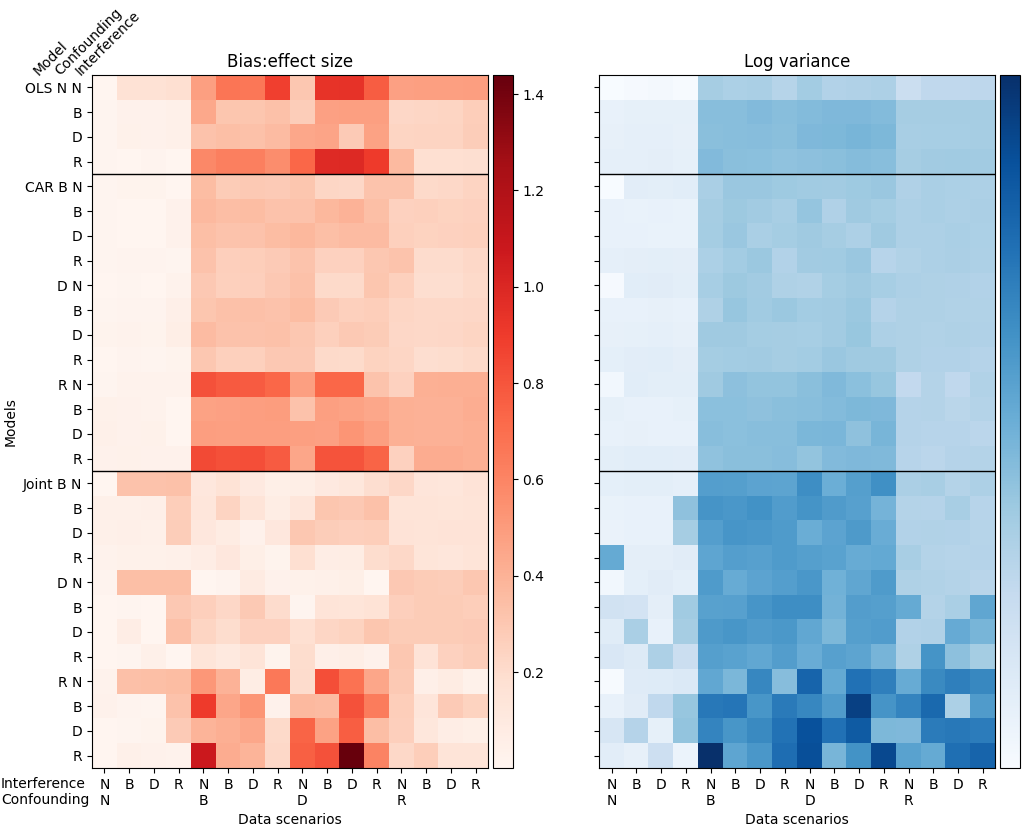
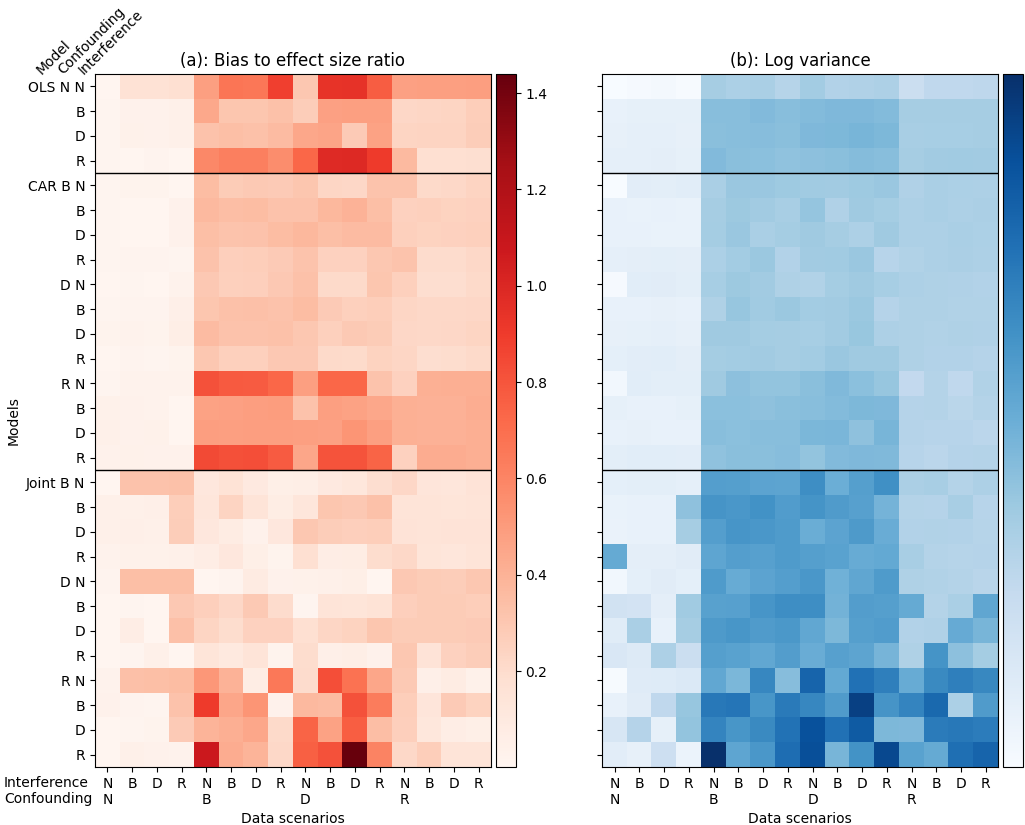
move experiment plan doc to experiment repo

diff --git a/analysis/combined-matrix-slides.py b/analysis/combined-matrix-slides.py
@@ -95,7 +95,7 @@ ax[0].set_yticklabels(ylabels)
 ax[0].set_xticks(list(range(len(xlabels))))
 # ax[0].xaxis.set_ticks_position('none')
 ax[0].set_xticklabels(xlabels)
-ax[0].set_title("Bias:effect size")
+ax[0].set_title("(a): Bias to effect size ratio")
 ax[0].set_xlabel("Data scenarios")
 ax[0].set_ylabel("Models")
 # ax[0].set_xlabel("models (interference varies more)")
@@ -104,10 +104,10 @@ cax = divider.append_axes('right', size='5%', pad=0.05)
 fig.colorbar(bias_im, cax=cax, orientation='vertical')
 ax[0].plot([-0.5, 15.5], [3.5, 3.5], 'k', linewidth=1)
 ax[0].plot([-0.5, 15.5], [15.5, 15.5], 'k', linewidth=1)
-# highlight_cells(0, 4, xwidth=4, ywidth=12, ax=ax[0], color="limegreen", zorder=2, linewidth=3) # 2
-# highlight_cells(0, 16, xwidth=16, ywidth=8, ax=ax[0], color="limegreen", zorder=2, linewidth=3) # 3
-# highlight_cells(0, 12, xwidth=16, ywidth=4, ax=ax[0], color="limegreen", zorder=2, linewidth=3) # 4
-# highlight_cells(0, 24, xwidth=16, ywidth=4, ax=ax[0], color="limegreen", zorder=2, linewidth=3) # 4
+# highlight_cells(0, 4, xwidth=4, ywidth=12, ax=ax[0], color="black", zorder=2, linewidth=5) # 2
+# highlight_cells(0, 16, xwidth=16, ywidth=8, ax=ax[0], color="black", zorder=2, linewidth=5) # 3
+highlight_cells(0, 12, xwidth=16, ywidth=4, ax=ax[0], color="black", zorder=2, linewidth=5) # 4
+highlight_cells(0, 24, xwidth=16, ywidth=4, ax=ax[0], color="black", zorder=2, linewidth=5) # 4
 
 var_im = ax[1].imshow(np.log(conf_var_matrix), cmap="Blues")
 # plt.colorbar()
@@ -116,7 +116,7 @@ ax[1].set_yticklabels(ylabels)
 #ax[1].xaxis.tick_top()
 ax[1].set_xticks(list(range(len(xlabels))))
 ax[1].set_xticklabels(xlabels)
-ax[1].set_title("Log variance")
+ax[1].set_title("(b): Log variance")
 # ax[1].set_ylabel("Data scenarios")
 ax[1].set_xlabel("Data scenarios")
 divider = make_axes_locatable(ax[1])
@@ -130,11 +130,174 @@ plt.text(0.0925, 0.88, "Confounding", rotation=45, fontsize=10, transform=fig.tr
 plt.text(0.11, 0.88, "Interference", rotation=45, fontsize=10, transform=fig.transFigure)
 plt.text(0.05, 0.0875, "Interference", fontsize=10, transform=fig.transFigure)
 plt.text(0.05, 0.07, "Confounding", fontsize=10, transform=fig.transFigure)
-# highlight_cells(0, 4, xwidth=4, ywidth=12, ax=ax[1], color="limegreen", zorder=2, linewidth=3)
-# highlight_cells(0, 16, xwidth=16, ywidth=8, ax=ax[1], color="limegreen", zorder=2, linewidth=3)
-# highlight_cells(0, 12, xwidth=16, ywidth=4, ax=ax[1], color="limegreen", zorder=2, linewidth=3)
-# highlight_cells(0, 24, xwidth=16, ywidth=4, ax=ax[1], color="limegreen", zorder=2, linewidth=3)
+# highlight_cells(0, 4, xwidth=4, ywidth=12, ax=ax[1], color="black", zorder=2, linewidth=5)
+# highlight_cells(0, 16, xwidth=16, ywidth=8, ax=ax[1], color="black", zorder=2, linewidth=5)
+highlight_cells(0, 12, xwidth=16, ywidth=4, ax=ax[1], color="black", zorder=2, linewidth=5)
+highlight_cells(0, 24, xwidth=16, ywidth=4, ax=ax[1], color="black", zorder=2, linewidth=5)
 # plt.text(0.50, 0.09, "Interference", fontsize=10, transform=fig.transFigure)
 # plt.text(0.50, 0.075, "Confounding", fontsize=10, transform=fig.transFigure)
 # plt.tight_layout()
+plt.show()
+
+
+## MASKED PLOTS FOR SLIDES: 1
+# This is FAR from the best way to do this
+biasmat = np.abs(conf_bias_matrix)/1.5
+varmat = np.log(conf_var_matrix)
+bvmin = biasmat.min()
+bvmax = biasmat.max()
+vvmin = varmat.min()
+vvmax = varmat.max()
+
+bias_cm = copy.copy(get_cmap("Reds"))
+bias_cm.set_bad(color='lightgray')
+var_cm = copy.copy(get_cmap("Blues"))
+var_cm.set_bad(color='lightgray')
+
+mask1 = biasmat.copy()
+mask1_r = [0]*16 + [1]*16 + [2]*16 + [3]*16 + \
+          [4]*12 + [5]*12 + [6]*12 + [7]*12 + \
+          [8]*12 + [9]*12 + [10]*12 + [11]*12 + \
+          [12]*12 + [13]*12 + [14]*12 + [15]*12 + \
+          [16]*16 + [17]*16 + [18]*16 + [19]*16 + \
+          [20]*16 + [21]*16 + [22]*16 + [23]*16 + \
+          [24]*16 + [25]*16 + [26]*16 + [27]*16
+mask1_c = 4*list(range(16)) + 12*list(range(4, 16)) + 12*list(range(16))
+mask1[mask1_r, mask1_c] = np.nan
+
+mask2 = biasmat.copy()
+mask2_r = [0]*16 + [1]*16 + [2]*16 + [3]*16 + \
+          [4]*16 + [5]*16 + [6]*16 + [7]*16 + \
+          [8]*16 + [9]*16 + [10]*16 + [11]*16 + \
+          [12]*16 + [13]*16 + [14]*16 + [15]*16 + \
+          [24]*16 + [25]*16 + [26]*16 + [27]*16
+mask2_c = 20*list(range(16))
+mask2[mask2_r, mask2_c] = np.nan
+
+mask3 = biasmat.copy()
+mask3_r = [0]*16 + [1]*16 + [2]*16 + [3]*16 + \
+          [4]*16 + [5]*16 + [6]*16 + [7]*16 + \
+          [8]*16 + [9]*16 + [10]*16 + [11]*16 + \
+          [16]*16 + [17]*16 + [18]*16 + [19]*16 + \
+          [20]*16 + [21]*16 + [22]*16 + [23]*16
+mask3_c = 20*list(range(16))
+mask3[mask3_r, mask3_c] = np.nan
+
+
+biasmat1 = np.ma.array(biasmat, mask=np.isnan(mask1))
+biasmat2 = np.ma.array(biasmat, mask=np.isnan(mask2))
+biasmat3 = np.ma.array(biasmat, mask=np.isnan(mask3))
+varmat1 = np.ma.array(varmat, mask=np.isnan(mask1))
+varmat2 = np.ma.array(varmat, mask=np.isnan(mask2))
+varmat3 = np.ma.array(varmat, mask=np.isnan(mask3))
+
+fig, ax = plt.subplots(ncols=2, figsize=(12, 9), sharey=True)
+bias_im = ax[0].imshow(biasmat1, vmin=bvmin, vmax=bvmax, cmap=bias_cm)
+ax[0].set_yticks(list(range(len(ylabels))))
+ax[0].set_yticklabels(ylabels)
+ax[0].set_xticks(list(range(len(xlabels))))
+ax[0].set_xticklabels(xlabels)
+ax[0].set_title("(a): Bias to effect size ratio")
+ax[0].set_xlabel("Data scenarios")
+ax[0].set_ylabel("Models")
+divider = make_axes_locatable(ax[0])
+cax = divider.append_axes('right', size='5%', pad=0.05)
+fig.colorbar(bias_im, cax=cax, orientation='vertical')
+ax[0].plot([-0.5, 15.5], [3.5, 3.5], 'k', linewidth=1)
+ax[0].plot([-0.5, 15.5], [15.5, 15.5], 'k', linewidth=1)
+
+var_im = ax[1].imshow(varmat1, vmin=vvmin, vmax=vvmax, cmap=var_cm)
+ax[1].set_yticks(list(range(len(ylabels))))
+ax[1].set_yticklabels(ylabels)
+ax[1].set_xticks(list(range(len(xlabels))))
+ax[1].set_xticklabels(xlabels)
+ax[1].set_title("(b): Log variance")
+ax[1].set_xlabel("Data scenarios")
+divider = make_axes_locatable(ax[1])
+cax = divider.append_axes('right', size='5%', pad=0.05)
+cbar = fig.colorbar(var_im, cax=cax, orientation='vertical')
+cbar.set_ticks([])
+ax[1].plot([-0.5, 15.5], [3.5, 3.5], 'k', linewidth=1)
+ax[1].plot([-0.5, 15.5], [15.5, 15.5], 'k', linewidth=1)
+plt.text(0.075, 0.88, "Model", rotation=45, fontsize=10, transform=fig.transFigure)
+plt.text(0.0925, 0.88, "Confounding", rotation=45, fontsize=10, transform=fig.transFigure)
+plt.text(0.11, 0.88, "Interference", rotation=45, fontsize=10, transform=fig.transFigure)
+plt.text(0.05, 0.0875, "Interference", fontsize=10, transform=fig.transFigure)
+plt.text(0.05, 0.07, "Confounding", fontsize=10, transform=fig.transFigure)
+plt.show()
+
+
+## MASK 2
+
+fig, ax = plt.subplots(ncols=2, figsize=(12, 9), sharey=True)
+bias_im = ax[0].imshow(biasmat2, vmin=bvmin, vmax=bvmax, cmap=bias_cm)
+ax[0].set_yticks(list(range(len(ylabels))))
+ax[0].set_yticklabels(ylabels)
+ax[0].set_xticks(list(range(len(xlabels))))
+ax[0].set_xticklabels(xlabels)
+ax[0].set_title("(a): Bias to effect size ratio")
+ax[0].set_xlabel("Data scenarios")
+ax[0].set_ylabel("Models")
+divider = make_axes_locatable(ax[0])
+cax = divider.append_axes('right', size='5%', pad=0.05)
+fig.colorbar(bias_im, cax=cax, orientation='vertical')
+ax[0].plot([-0.5, 15.5], [3.5, 3.5], 'k', linewidth=1)
+ax[0].plot([-0.5, 15.5], [15.5, 15.5], 'k', linewidth=1)
+
+var_im = ax[1].imshow(varmat2, vmin=vvmin, vmax=vvmax, cmap=var_cm)
+ax[1].set_yticks(list(range(len(ylabels))))
+ax[1].set_yticklabels(ylabels)
+ax[1].set_xticks(list(range(len(xlabels))))
+ax[1].set_xticklabels(xlabels)
+ax[1].set_title("(b): Log variance")
+ax[1].set_xlabel("Data scenarios")
+divider = make_axes_locatable(ax[1])
+cax = divider.append_axes('right', size='5%', pad=0.05)
+cbar = fig.colorbar(var_im, cax=cax, orientation='vertical')
+cbar.set_ticks([])
+ax[1].plot([-0.5, 15.5], [3.5, 3.5], 'k', linewidth=1)
+ax[1].plot([-0.5, 15.5], [15.5, 15.5], 'k', linewidth=1)
+plt.text(0.075, 0.88, "Model", rotation=45, fontsize=10, transform=fig.transFigure)
+plt.text(0.0925, 0.88, "Confounding", rotation=45, fontsize=10, transform=fig.transFigure)
+plt.text(0.11, 0.88, "Interference", rotation=45, fontsize=10, transform=fig.transFigure)
+plt.text(0.05, 0.0875, "Interference", fontsize=10, transform=fig.transFigure)
+plt.text(0.05, 0.07, "Confounding", fontsize=10, transform=fig.transFigure)
+plt.show()
+
+
+## MASK 3
+
+fig, ax = plt.subplots(ncols=2, figsize=(12, 9), sharey=True)
+bias_im = ax[0].imshow(biasmat3, vmin=bvmin, vmax=bvmax, cmap=bias_cm)
+ax[0].set_yticks(list(range(len(ylabels))))
+ax[0].set_yticklabels(ylabels)
+ax[0].set_xticks(list(range(len(xlabels))))
+ax[0].set_xticklabels(xlabels)
+ax[0].set_title("(a): Bias to effect size ratio")
+ax[0].set_xlabel("Data scenarios")
+ax[0].set_ylabel("Models")
+divider = make_axes_locatable(ax[0])
+cax = divider.append_axes('right', size='5%', pad=0.05)
+fig.colorbar(bias_im, cax=cax, orientation='vertical')
+ax[0].plot([-0.5, 15.5], [3.5, 3.5], 'k', linewidth=1)
+ax[0].plot([-0.5, 15.5], [15.5, 15.5], 'k', linewidth=1)
+
+var_im = ax[1].imshow(varmat3, vmin=vvmin, vmax=vvmax, cmap=var_cm)
+ax[1].set_yticks(list(range(len(ylabels))))
+ax[1].set_yticklabels(ylabels)
+ax[1].set_xticks(list(range(len(xlabels))))
+ax[1].set_xticklabels(xlabels)
+ax[1].set_title("(b): Log variance")
+ax[1].set_xlabel("Data scenarios")
+divider = make_axes_locatable(ax[1])
+cax = divider.append_axes('right', size='5%', pad=0.05)
+cbar = fig.colorbar(var_im, cax=cax, orientation='vertical')
+cbar.set_ticks([])
+ax[1].plot([-0.5, 15.5], [3.5, 3.5], 'k', linewidth=1)
+ax[1].plot([-0.5, 15.5], [15.5, 15.5], 'k', linewidth=1)
+plt.text(0.075, 0.88, "Model", rotation=45, fontsize=10, transform=fig.transFigure)
+plt.text(0.0925, 0.88, "Confounding", rotation=45, fontsize=10, transform=fig.transFigure)
+plt.text(0.11, 0.88, "Interference", rotation=45, fontsize=10, transform=fig.transFigure)
+plt.text(0.05, 0.0875, "Interference", fontsize=10, transform=fig.transFigure)
+plt.text(0.05, 0.07, "Confounding", fontsize=10, transform=fig.transFigure)
 plt.show()

diff --git a/analysis/raster-fig.py b/analysis/raster-fig.py
@@ -1,0 +1,26 @@
+import numpy as np
+import matplotlib.pyplot as plt
+
+img = np.array([[1, 1, 0, 0, 0],
+                [1, 1, 0, 0, 0],
+                [1, 1, 1, 1, 1],
+                [0, 1, 1, 1, 1],
+                [0, 0, 0, 0, 1]])
+img = 1 - img  # flip so the colors look nice (green = treated)
+
+plt.imshow(img, cmap="Accent")
+plt.axis('off')
+plt.vlines([-0.5, 0.5, 1.5, 2.5, 3.5, 4.5], ymin=-0.5, ymax=4.5, colors='k')
+plt.hlines([-0.5, 0.5, 1.5, 2.5, 3.5, 4.5], xmin=-0.5, xmax=4.5, colors='k')
+plt.show()
+
+pad = 0.05
+plt.imshow(img, cmap="Accent")
+plt.axis('off')
+plt.vlines([-0.5, 0.5, 1.5, 2.5, 3.5, 4.5], ymin=-0.5, ymax=4.5, colors='k')
+plt.hlines([-0.5, 0.5, 1.5, 2.5, 3.5, 4.5], xmin=-0.5, xmax=4.5, colors='k')
+plt.arrow(1-pad, 2, 1, 0, length_includes_head=True, head_width=0.1, color="ivory")
+plt.arrow(3+pad, 2, -1, 0, length_includes_head=True, head_width=0.1, color="ivory")
+plt.arrow(2, 1-pad, 0, 1, length_includes_head=True, head_width=0.1, color="ivory")
+plt.arrow(2, 3+pad, 0, -1, length_includes_head=True, head_width=0.1, color="ivory")
+plt.show()

diff --git a/analysis/initial-exploration.py b/analysis/initial-exploration.py
@@ -67,5 +67,22 @@ matched_data_outs["w_c_data_form"] = matched_data_outs["w_c_data_form"].map(rev_
 matched_data_outs["w_c_model_form"] = matched_data_outs["w_c_model_form"].map(rev_mapper)
 
 data["bias"] = data["tau_med"] - data["treat"]
+data["bias_ratio"] = np.abs(data["bias"])/1.5
+data["log_var"] = np.log(data["tau_var"])
 sns.histplot(data["bias"])
+plt.show()
+
+
+plt.rc('font', size=16)
+_, ax = plt.subplots(ncols=2, sharey=True)
+sns.boxplot(data=[matched_data["bias_ratio"], unmatched_data["bias_ratio"]], orient="h", ax=ax[0])
+ax[0].set_yticklabels(labels=["Matched", "Unmatched"])
+ax[0].set_xlabel("Bias:effect size")
+ax[0].set_title("Comparison of bias:effect size ratio")
+
+sns.boxplot(data=[matched_data["log_var"], unmatched_data["log_var"]], orient="h", ax=ax[1])
+ax[1].set_yticklabels(labels=["Matched", "Unmatched"])
+ax[1].set_xlabel("Log variance")
+ax[1].set_title("Comparison of log variance")
+plt.tight_layout()
 plt.show()

diff --git a/experiment-plan.md b/experiment-plan.md
@@ -1,0 +1,66 @@
+## DGP parameters
+
+Let $N$ be the number of spatial units (one observation per unit) and $D$ be the number of covariates.
+Also note that the value $\phi = 0$ corresponds to an ICAR DGP, and any $\phi > 0$ corresponds to the Joint DGP.
+The choices of $W_I$ also correspond to various versions of interference: a region-based weights matrix, for example, represents partial interference.
+
+| Math name | Code name | Description | Domain | Plausible values | Testing set |
+|:----------|:----------|:------------|:------:|:----------------:|:-----------:|
+| $\tau$    | `treat`   | Treatment effect of Z on Y | $(-\infty, \infty)$ | $[-10, 10]$ | $[-2, 2]$ |
+| $\alpha$  | `z_conf`  | Effect of nonspatial confounders on Z | $(-\infty, \infty)^D$ | $[-10, 10]^D$ | $[-2, 2]^D$ |
+| $\beta$   | `y_conf`  | Effect of nonspatial confounders on Y | $(-\infty, \infty)^D$ | $[-10, 10]^D$ | $[-2, 2]^D$ |
+|           | `interf`  | Effect of interference on Y | $(-\infty, \infty)$ | $[-10, 10]$ | $[-2, 2]$ |
+|$\sigma^2_X$|`x_sd`| Standard deviation of confounders | $(0, \infty)$ | $(0, 10)$ | $(0, 1]$ |
+| $\rho_X$ | `x_sp` | Spatial autocorrelation of confounders | $(0, 1)$ | $[0.5, 0.99]$| $[0.5, 0.99]$ |
+|$\sigma^2_Y$|`y_sd`| Standard deviation of outcome | $(0, \infty)$ | $(0, 10)$ | $(0, 1]$ |
+| $\rho_U$ | `ucar_str` | Strength of spatial association for spatial confounding on Y | $(0, 1)$ | $[0.5, 0.99]$| $[0.5, 0.99]$ |
+|$\sigma^2_U$|`ucar_sd`| Standard deviation of CAR term for confounding on Y | $(0, \infty)$ | $(0, 10)$ | $(0, 1]$ |
+| $\rho_V$ | `vcar_str` | Strength of spatial association for spatial confounding on Z | $(0, 1)$ | $[0.5, 0.99]$| $[0.5, 0.99]$ |
+|$\sigma^2_V$|`vcar_sd`| Standard deviation of CAR term for confounding on Z | $(0, \infty)$ | $(0, 10)$ | $(0, 1]$ |
+|$\phi$| `balance` | Balancing factor that parametrizes the shared spatial confounding between Y and Z | $[0, 1]$ | $[0, 1]$ | $[0, 1]$ |
+| $W_C$ | `w` (in `simulator.py`) | Weights matrix for spatial confounding | {binary contiguity, distance-based, region-based}| same as domain | same as domain |
+| $W_I$ | `w` (in `preprocessing.py`)| Weights matrix for interference | {binary contiguity, distance-based, region-based} | same as domain | same as domain |
+
+
+## Model parameters
+There are substantially fewer choices on the modeling side of things.
+- Choice of model: OLS, ICAR, or Joint.
+- Weights choice in model: binary contiguity, distance-based, region-based.
+- Kind of interference: binary contiguity, distance-based, region-based, or none.
+- Nonspatial conditioning set: propensity score (spatial or nonspatial model and level of smoothing) or confounders.
+
+## Fitting hyperparameters
+These are hyperparameters to be tuned for posterior convergence purposes, not to be studied in the manuscript.
+They will be controlled in the experiments.
+| Code name  | Description                             | Domain        |
+|:-----------|:----------------------------------------|:--------------|
+| `nsamples` | Number of samples per chain             | $\mathbb{Z}_{\geq 0}$ |
+| `nwarmup`  | Number of samples for burn-in per chain | $\mathbb{Z}_{\geq 0}$ |
+| `nchains`  | Number of Markov chains to use for sampling | $\mathbb{Z}_{\geq 0}$ |
+| `save_warmup` | Flag for saving burn-in samples      | `True`, `False`|
+| `delta` | Target Metropolis acceptance rate | $(0, 1)$ |
+| `max_depth` | Max tree depth for NUTS | $\mathbb{Z}_{\geq 0}$ |
+
+Below are reasonable settings for the experiments.
+Of course, one could run these models with higher powered configurations, but these settings yield acceptable to superb convergence (depending on model) on all the diagnostic metrics.
+| Model | Interference | Conditioning set | `nsamples` | `nwarmup` | `nchains` | `save_warmup` | `delta` | `max_depth` |
+|:------|:-------------|:-----------------|:----------:|:---------:|:---------:|:-------------:|:-------:|:-----------:|
+| OLS   | none         | confounders      | 1000       | 1000      | 1         | False         | 0.8     | 10          |
+| OLS   | none         | propensity score | 1000       | 1000      | 1         | False         | 0.8     | 10          |
+| OLS   | rook         | confounders      | 1000       | 1000      | 1         | False         | 0.8     | 10          |
+| OLS   | rook         | propensity score | 1000       | 1000      | 1         | False         | 0.8     | 10          |
+| ICAR  | none         | confounders      | 1000       | 1000      | 1         | False         | 0.8     | 10          |
+| ICAR  | none         | propensity score | 1000       | 1000      | 1         | False         | 0.8     | 10          |
+| ICAR  | rook         | confounders      | 1000       | 1000      | 1         | False         | 0.8     | 10          |
+| ICAR  | rook         | propensity score | 1000       | 1000      | 1         | False         | 0.8     | 10          |
+| Joint | none         | confounders      | 1000       | 1000      | 1         | False         | 0.8     | 10          |
+| Joint | none         | propensity score | 1000       | 1000      | 1         | False         | 0.8     | 10          |
+| Joint | rook         | confounders      | 1000       | 1000      | 1         | False         | 0.8     | 10          |
+| Joint | rook         | propensity score | 1000       | 1000      | 1         | False         | 0.8     | 10          |
+
+**TODO** update this table with final `nchains` and `nsamples`
+
+# Experiments
+Create a massive hypercube and run everything, recording bias and diagnostic values.
+It doesn't look like these simulations will be too intensive, even though we'll be doing a lot of them, so this strategy should just work.
+As a final touch, we can krige or otherwise interpolate the results to get an idea of what the rest of the landscape looks like.
